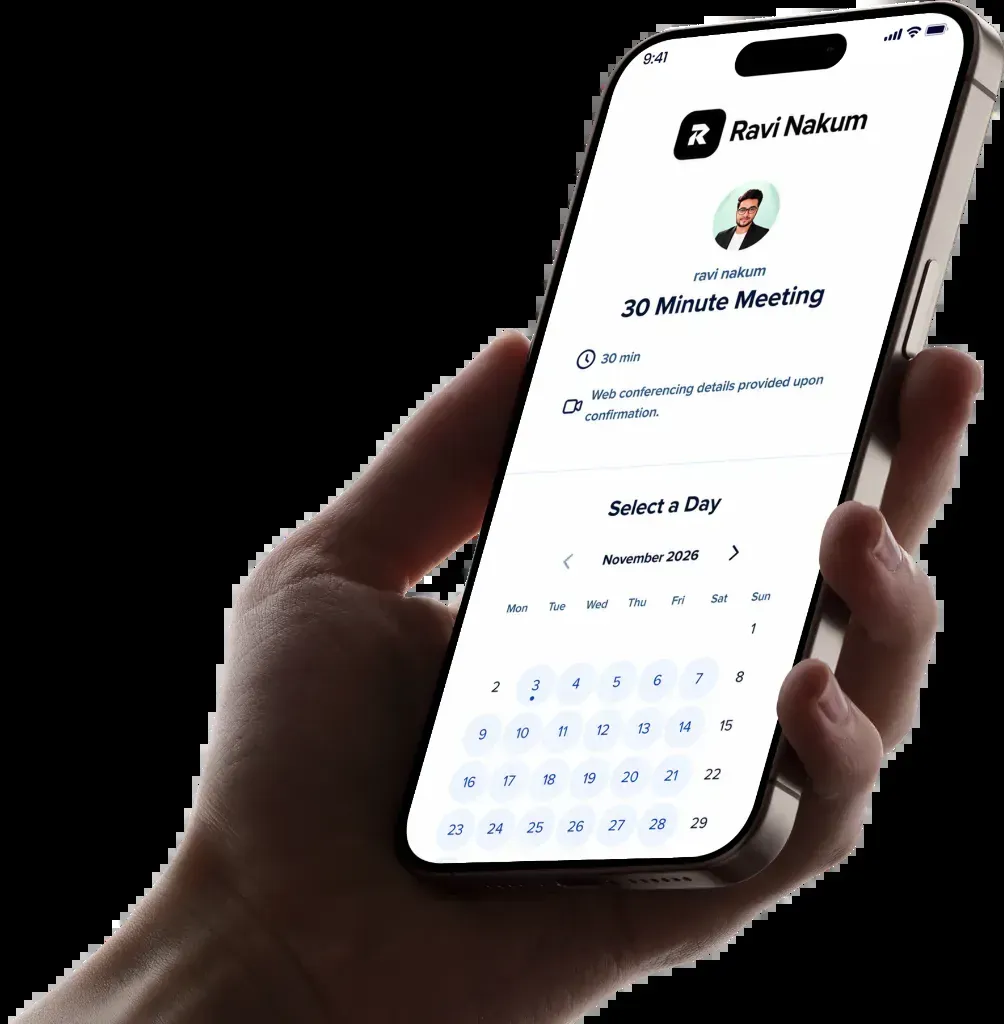
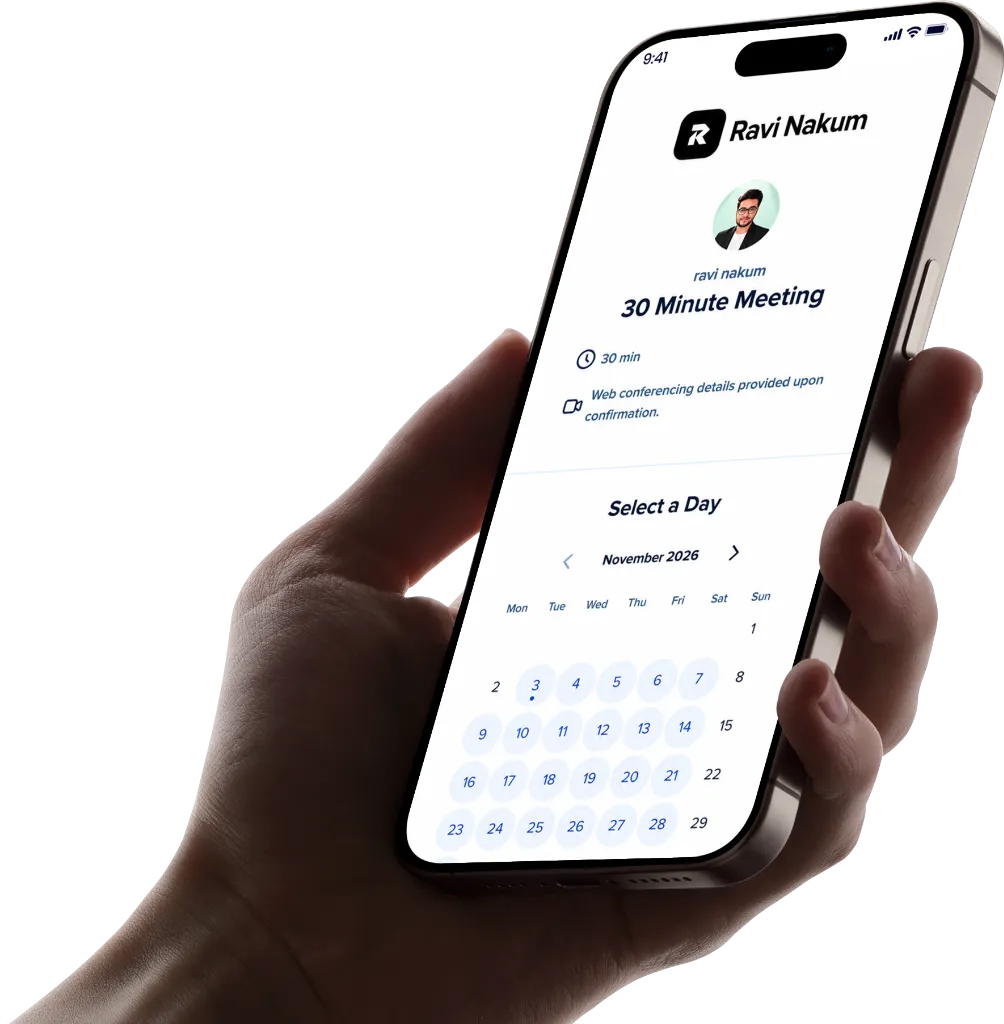
Revert unrequested image optimization workflow and generated assets

diff --git a/index.html b/index.html
@@ -19,7 +19,7 @@
       href="https://fonts.googleapis.com/css2?family=Manrope:wght@400;500;600;700;800&family=Caveat:wght@500;600&display=swap"
       rel="stylesheet">
   </noscript>
-  <link rel="preload" as="image" href="img/hero-img-480.webp" imagesrcset="img/hero-img-480.webp 480w, img/hero-img-900.webp 900w, img/hero-img.webp 1254w" imagesizes="(max-width: 767px) 100vw, 50vw" fetchpriority="high">
+  <link rel="preload" as="image" href="img/hero-img.png" fetchpriority="high">
   <style>
     :root {
       color-scheme: light;
@@ -3320,7 +3320,7 @@
 
             <div class="hx-visual">
               <div class="hx-panel">
-                <img src="img/hero-img-900.webp" srcset="img/hero-img-480.webp 480w, img/hero-img-900.webp 900w, img/hero-img.webp 1254w" sizes="(max-width: 767px) 100vw, 50vw" width="1254" height="1254" alt="Ravi Nakum" draggable="false" fetchpriority="high" loading="eager" decoding="async">
+                <img src="img/hero-img.png" alt="Ravi Nakum" draggable="false" fetchpriority="high" loading="eager" decoding="async">
                 <span class="hx-pill hx-pill--avail"><i aria-hidden="true"></i>Available for work</span>
               </div>
             </div>
@@ -3413,8 +3413,8 @@
         <!-- To use real work: replace each .ba-layer placeholder text with <img src="..." alt="..."> -->
         <div class="ba" id="ba" role="slider" tabindex="0" aria-label="Before and after comparison" aria-valuemin="0"
           aria-valuemax="100" aria-valuenow="50">
-          <div class="ba-layer ba-after"><img loading="lazy" decoding="async" src="img/after.webp" srcset="img/after.webp 720w, img/after-1600.webp 1600w" sizes="(max-width: 700px) 100vw, 720px" alt="Fieldd after redesign screenshot"></div>
-          <div class="ba-layer ba-before"><img loading="lazy" decoding="async" src="img/before.webp" srcset="img/before.webp 720w, img/before-1600.webp 1600w" sizes="(max-width: 700px) 100vw, 720px" alt="Fieldd before redesign screenshot"></div>
+          <div class="ba-layer ba-after"><img loading="lazy" decoding="async" src="img/After.png" alt="Fieldd after redesign screenshot"></div>
+          <div class="ba-layer ba-before"><img loading="lazy" decoding="async" src="img/Before.png" alt="Fieldd before redesign screenshot"></div>
           <span class="ba-tag l">Before</span>
           <span class="ba-tag r">After</span>
           <div class="ba-handle" aria-hidden="true"></div>
